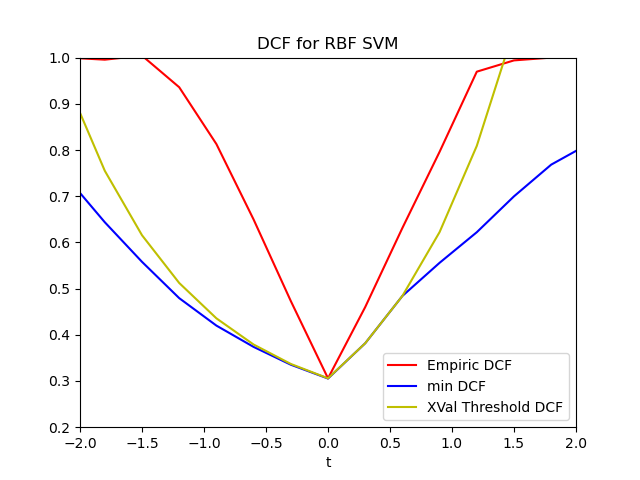
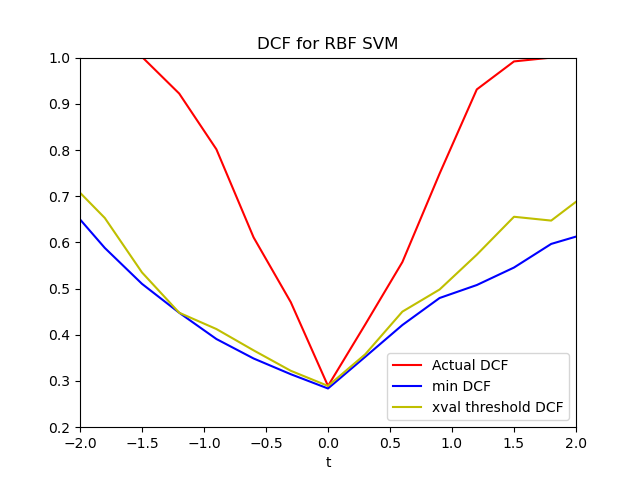
feat(newBayesErrorPlots)

diff --git a/projectFiles/utilityML/Functions/bayes.py b/projectFiles/utilityML/Functions/bayes.py
@@ -74,7 +74,7 @@ def generate_roc_curve(labels, scores, pi, Cfn, Cfp):
 
 	return FPR_array, TPR_array
 
-def bayes_error_plots(plot_name, labels, scores, validation_threshold = None, calibrated_scores = None):
+def bayes_error_plots(plot_name, labels, scores, calibrated_scores = None):
 
 	#IPOTESI DI BASE
 	#Una qualsiasi applicazione (pi, Cfn, Cfp), è equivalente
@@ -90,12 +90,22 @@ def bayes_error_plots(plot_name, labels, scores, validation_threshold = None, ca
 	#1) I valori di p vanno da -3 a 3
 	effPriorLogOdds = numpy.linspace(-3, 3, 21)
 
-	DCF_array = []
-	DCF_min_array = []
+	# split data
+	n70 = int(len(scores)*0.7)
+	numpy.random.seed(0)
+	idx = numpy.random.permutation(len(scores))
+	idx70 = idx[0:n70]
+	idx30 = idx[n70:]
 
-	if(validation_threshold != None):
-		DCF_validation = []
-	
+	data70 = scores[idx70]
+	data30 = scores[idx30]
+	label70 = labels[idx70]
+	label30 = labels[idx30]
+
+	DCF_min_array = []
+	xval_DCF_array = []
+	actualDCF_array = []
+
 	if(calibrated_scores is not None):
 		DCF_calibrated = []
 
@@ -104,13 +114,15 @@ def bayes_error_plots(plot_name, labels, scores, validation_threshold = None, ca
 	for p in effPriorLogOdds:
 		pi_tilde = 1 / (1 + numpy.exp(-p))
 
-		#EMPIRIC DCF
-		DCF_array.append(compute_normalized_dcf_binary(compute_confusion_matrix_binary(labels, scores, pi_tilde, 1, 1), pi_tilde, 1, 1))
 		#MIN DCF
-		DCF_min_array.append(compute_min_dcf(labels, scores, pi_tilde, 1, 1)[0])
-		#DCF USING THE VALIDATION THRESHOLD
-		if(validation_threshold != None):
-			DCF_validation.append(compute_normalized_dcf_binary(compute_confusion_matrix_binary(labels, scores, pi_tilde, 1, 1, t=validation_threshold), pi_tilde, 1, 1))
+		DCF_min_array.append(compute_min_dcf(label30, data30, pi_tilde, 1, 1)[0])
+		#threshold
+		threshold = compute_min_dcf(label70, data70, pi_tilde, 1, 1)[1]
+		#xval threshold DCF
+		xval_DCF_array.append(compute_normalized_dcf_binary(compute_confusion_matrix_binary(label30, data30, pi_tilde, 1, 1, t=threshold), pi_tilde, 1, 1))
+		# actual DCF
+		actualDCF_array.append(compute_normalized_dcf_binary(compute_confusion_matrix_binary(label30, data30, pi_tilde, 1, 1), pi_tilde, 1, 1))
+
 		if(calibrated_scores is not None):
 			DCF_calibrated.append(compute_normalized_dcf_binary(compute_confusion_matrix_binary(labels, calibrated_scores, pi_tilde, 1, 1), pi_tilde, 1, 1))
 
@@ -125,11 +137,10 @@ def bayes_error_plots(plot_name, labels, scores, validation_threshold = None, ca
 
 	
 	plt.xlabel("t")
-	plt.plot(effPriorLogOdds, DCF_array, label="Empiric DCF", color='r') 
+	plt.plot(effPriorLogOdds, actualDCF_array, label="Actual DCF", color='r') 
 	plt.plot(effPriorLogOdds, DCF_min_array, label="min DCF", color='b')
-	if(validation_threshold != None):
-		plt.plot(effPriorLogOdds, DCF_validation, label="XVal Threshold DCF", color='y')
-	
+	plt.plot(effPriorLogOdds, xval_DCF_array, label="xval threshold DCF", color='y')
+
 	if(calibrated_scores is not None):
 		plt.plot(effPriorLogOdds, DCF_calibrated, label="Calibrated DCF", color='g')
 

diff --git a/projectFiles/test_svm.py b/projectFiles/test_svm.py
@@ -64,7 +64,7 @@ with open("results/experimental/linearsvm.txt", "w") as f:
     f.write(f"minDCF Threshold DCF: {min_dcf}\n")
     f.write(f"DCF calibrated: {calibrated_dcf}")
 
-bayes_error_plots("DCF for Linear SVM", svm_l.LTE, svm_l.score[0], validation_threshold = -0.5213549363675212, calibrated_scores = calibrated_scores)
+bayes_error_plots("DCF for Linear SVM", svm_l.LTE, svm_l.score[0], calibrated_scores = calibrated_scores)
 
 
 Printer.print_title("SVM linear data")
@@ -97,7 +97,7 @@ xvalthreshold_dcf = svm_p.compute_dcf(-0.30825297694737075)
 #DCF MINIMO
 min_dcf = svm_p.compute_min_dcf()[0]
 
-bayes_error_plots("DCF for Poly SVM", svm_p.LTE, svm_p.score, validation_threshold = -0.30825297694737075)
+bayes_error_plots("DCF for Poly SVM", svm_p.LTE, svm_p.score)
 
 Printer.print_title("SVM polynomial data")
 Printer.print_line(f"DCF: {empiric_dcf}")
@@ -135,7 +135,7 @@ with open("results/experimental/rbfsvm.txt", "w") as f:
     f.write(f"X-validation Threshold DCF: {xvalthreshold_dcf}\n")
     f.write(f"minDCF Threshold DCF: {min_dcf}\n")
 
-bayes_error_plots("DCF for RBF SVM", svm_rbf.LTE, svm_rbf.score, validation_threshold = 6.985426439970719e-07)
+bayes_error_plots("DCF for RBF SVM", svm_rbf.LTE, svm_rbf.score)
 
 
 

diff --git a/projectFiles/test_logreg.py b/projectFiles/test_logreg.py
@@ -77,5 +77,5 @@ with open("results/experimental/logreg.txt", "w") as f:
     f.write(f"minDCF Threshold DCF: {min_dcf}\n")
     f.write(f"DCF calibrated: {calibrated_dcf}")
 
-bayes_error_plots("DCF for LogReg", log_reg.LTE, log_reg.S, validation_threshold = -0.5865054923862975, calibrated_scores = calibrated_scores)
+bayes_error_plots("DCF for LogReg", log_reg.LTE, log_reg.S, calibrated_scores = calibrated_scores)
 

diff --git a/projectFiles/test_quadlogreg.py b/projectFiles/test_quadlogreg.py
@@ -56,4 +56,4 @@ with open("results/experimental/quadlogreg.txt", "w") as f:
     f.write(f"X-validation Threshold DCF: {xvalthreshold_dcf}\n")
     f.write(f"minDCF Threshold DCF: {min_dcf}\n")
 
-bayes_error_plots("DCF for Quadratic LogReg", quad_log_reg.LTE, quad_log_reg.S, validation_threshold = -0.43632266055187996)
+bayes_error_plots("DCF for Quadratic LogReg", quad_log_reg.LTE, quad_log_reg.S)

diff --git a/projectFiles/test_gmm.py b/projectFiles/test_gmm.py
@@ -64,4 +64,4 @@ with open("results/experimental/gmm.txt", "w") as f:
     f.write(f"X-validation Threshold DCF: {xvalthreshold_dcf}\n")
     f.write(f"minDCF Threshold DCF: {min_dcf}\n")
 
-bayes_error_plots("DCF For GMM", gmm.LTE, gmm.llrs, validation_threshold = -0.09985079274315645)
+bayes_error_plots("DCF For GMM", gmm.LTE, gmm.llrs)

diff --git a/projectFiles/test_gaussian.py b/projectFiles/test_gaussian.py
@@ -52,4 +52,4 @@ with open("results/experimental/mvg.txt", "w") as f:
     f.write(f"X-validation Threshold DCF: {xvalthreshold_dcf}\n")
     f.write(f"minDCF Threshold DCF: {min_dcf}\n")
 
-bayes_error_plots("DCF For MVG", mvg.LTE, mvg.llrs, validation_threshold = 0.42050259957894554)
+bayes_error_plots("DCF For MVG", mvg.LTE, mvg.llrs)
